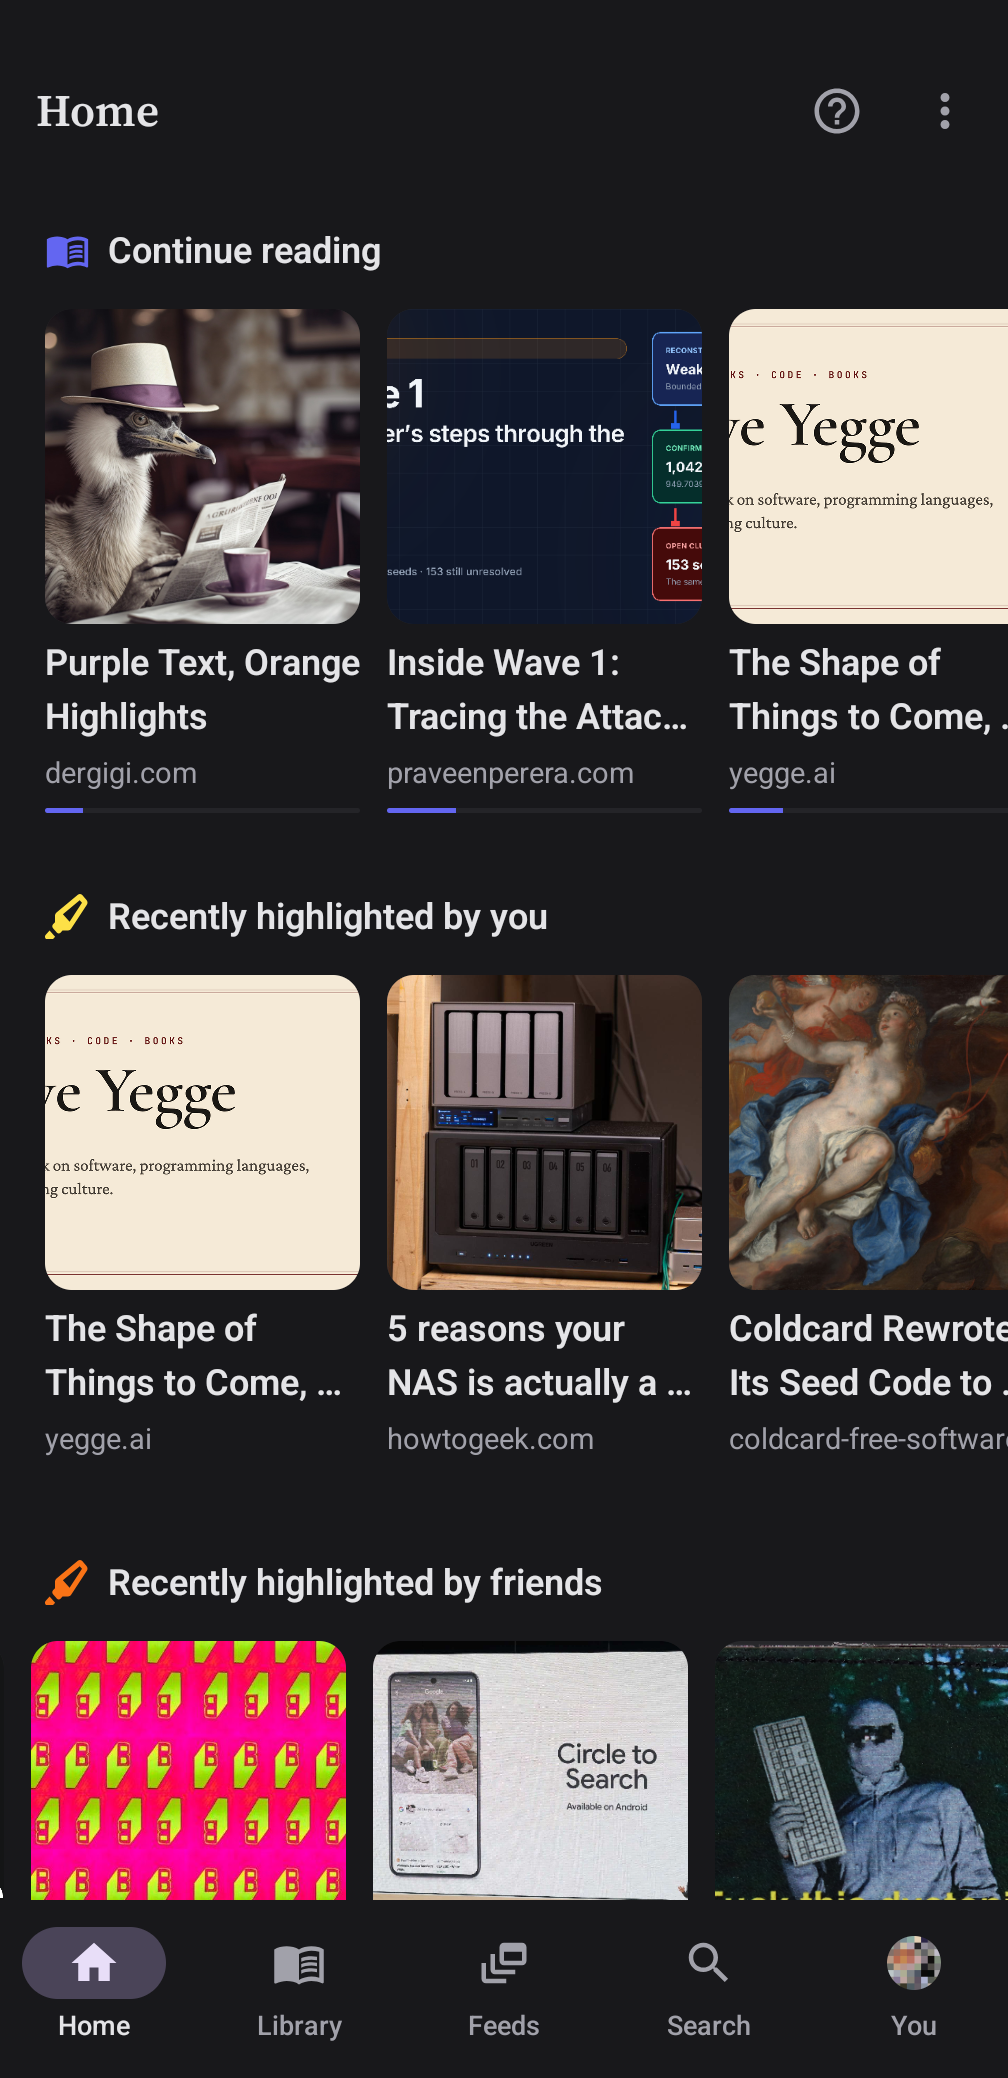
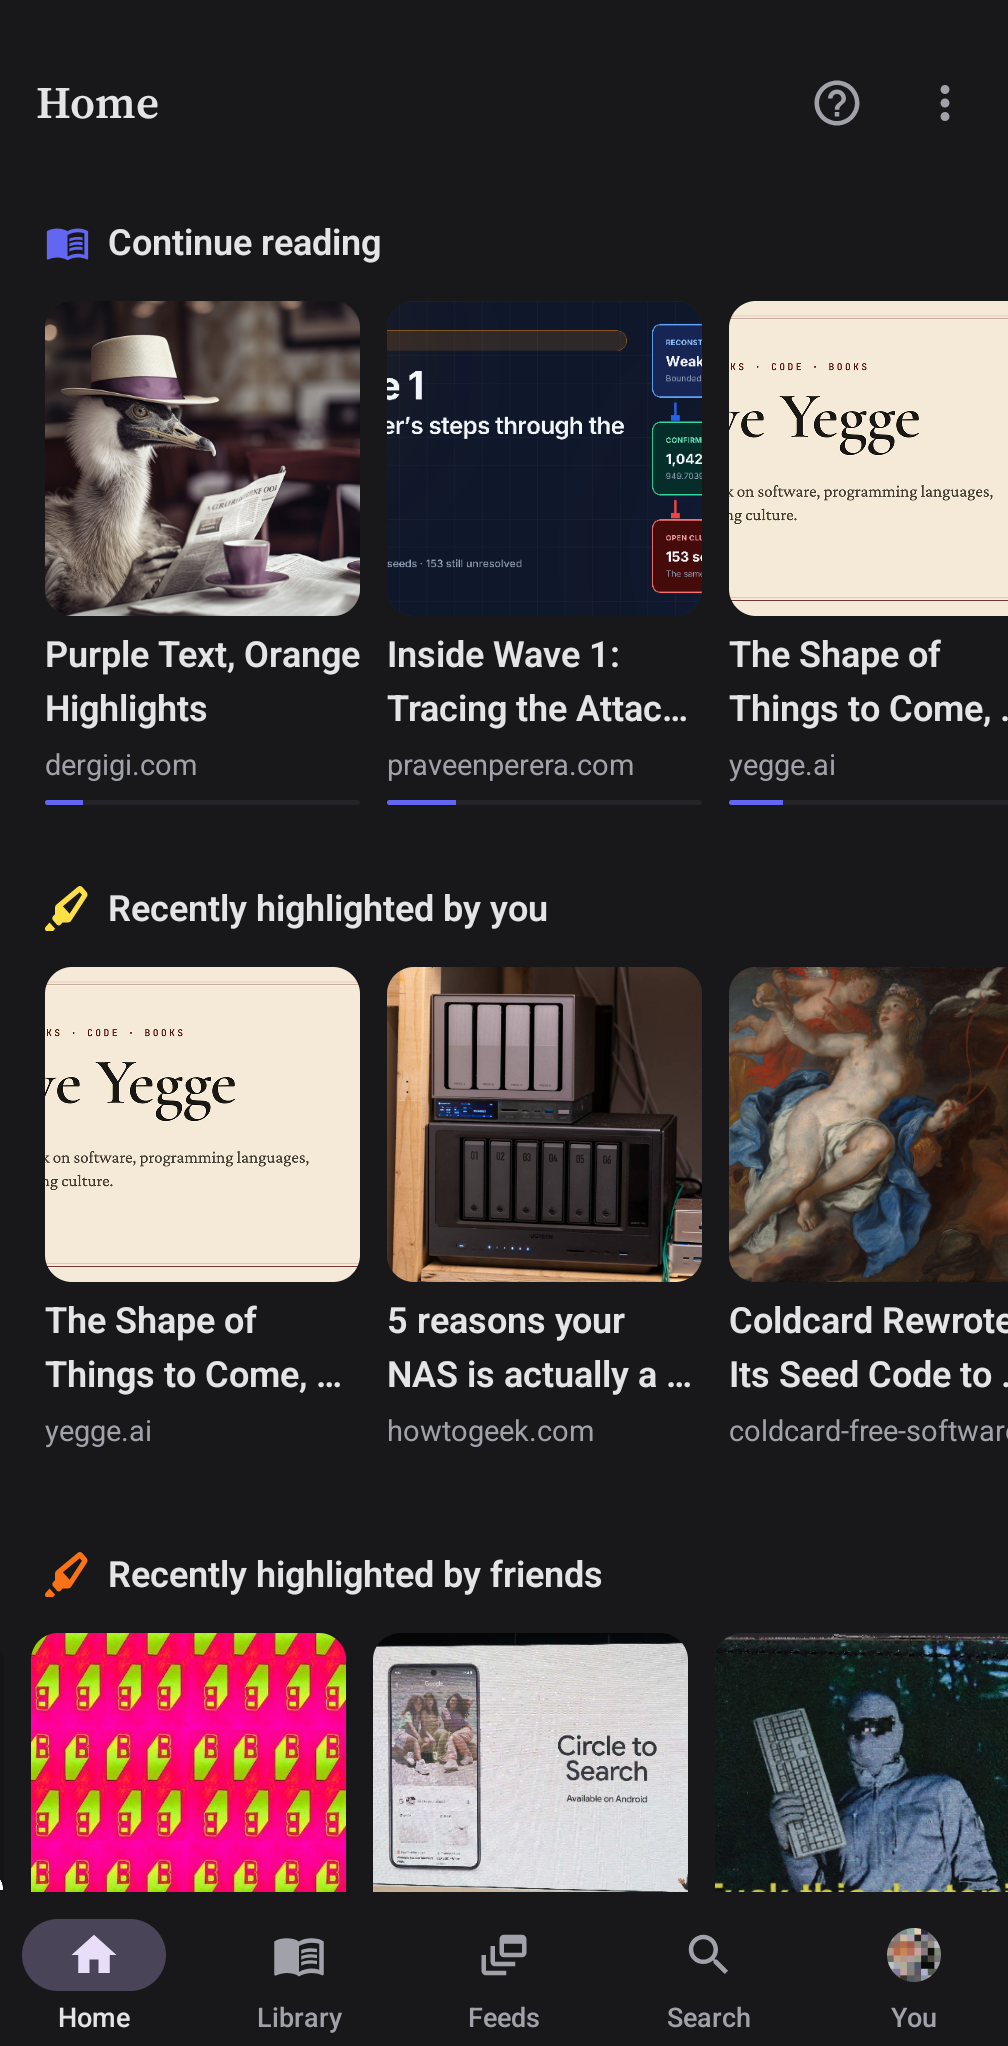
docs: crop screenshots and add the rest of the set
Status bar and gesture inset are gone. README and Zapstore now
use the reader cover shot, plus about and settings screens.

diff --git a/README.md b/README.md
@@ -3,18 +3,16 @@
 A nostr-native app for reading and highlighting. Paste a URL, share one from the browser, or open an `http`/`https`/`nostr:` link (articles, notes, `npub`/`nprofile`). You get a calm article view, your marks, swarm highlights from friends and the rest of the nostrverse, and listen with on-device TTS. Bookmarks and RSS live in the library.
 
 <p align="center">
-  <img src="screenshots/home.png" alt="Home" width="160">
-  <img src="screenshots/reader.png" alt="Reader" width="160">
-  <img src="screenshots/feeds.png" alt="Feeds" width="160">
-  <img src="screenshots/you.png" alt="You" width="160">
-  <img src="screenshots/search.png" alt="Search" width="160">
+  <img src="screenshots/home.png" width="180" alt="Home" />
+  <img src="screenshots/reader-cover.png" width="180" alt="Reader" />
+  <img src="screenshots/feeds.png" width="180" alt="Feeds" />
+  <img src="screenshots/you.png" width="180" alt="Your highlights" />
+  <img src="screenshots/search.png" width="180" alt="Search" />
 </p>
 
 No ads, no trackers, no paywalls, no subscriptions. Nostr is the backend, so your highlights travel with your npub. Pair a local relay like [Citrine](https://github.com/greenart7c3/Citrine) and keep reading in airplane mode.
 
 Login is optional. Amber or a bunker can sign events. Boris never holds an `nsec`.
-
-- Web: [readwithboris.com](https://readwithboris.com/)
 - Install: [Zapstore](https://zapstore.dev/apps/org.dergigi.boris) · [GitHub Releases](https://github.com/dergigi/boris-android/releases)
 - Versions: [CHANGELOG.md](CHANGELOG.md)
 

diff --git a/CHANGELOG.md b/CHANGELOG.md
@@ -9,6 +9,10 @@ Commit messages follow [Conventional Commits](https://www.conventionalcommits.or
 
 ## [Unreleased]
 
+### Added
+
+- README and Zapstore listing include app screenshots
+
 ## [1.4.7] - 2026-08-18
 
 ### Added
